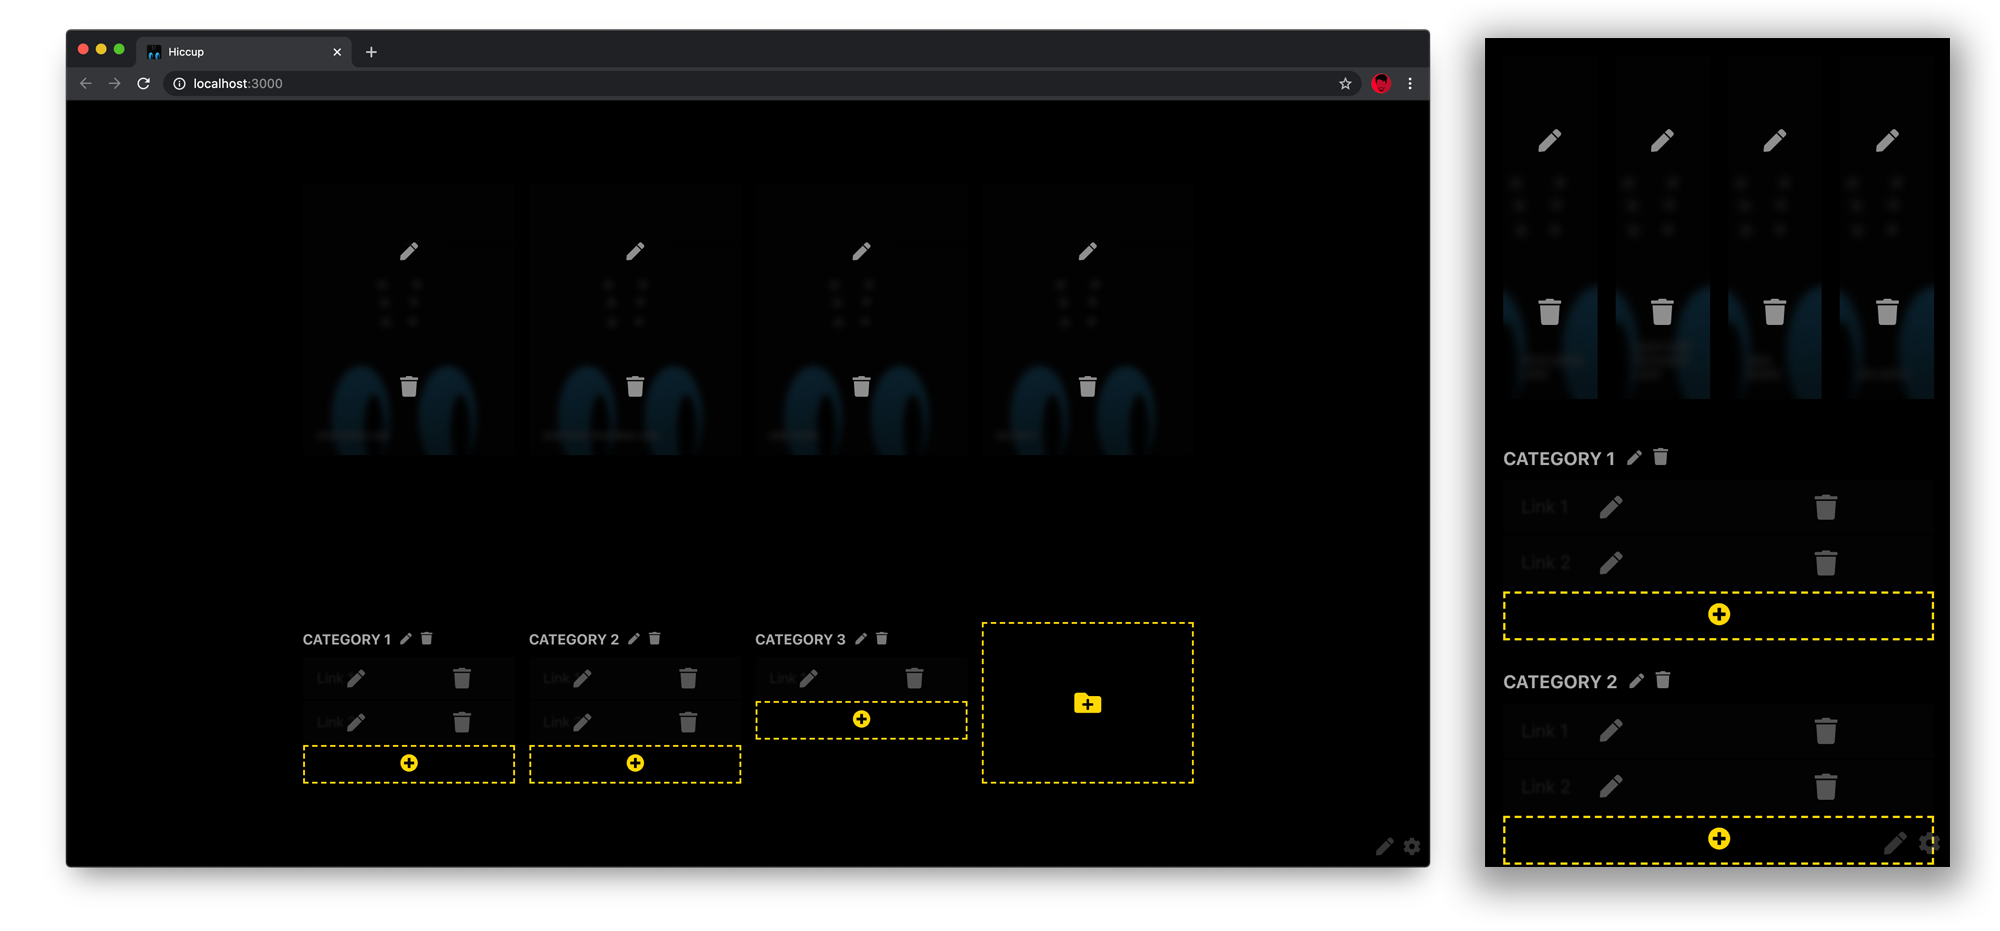
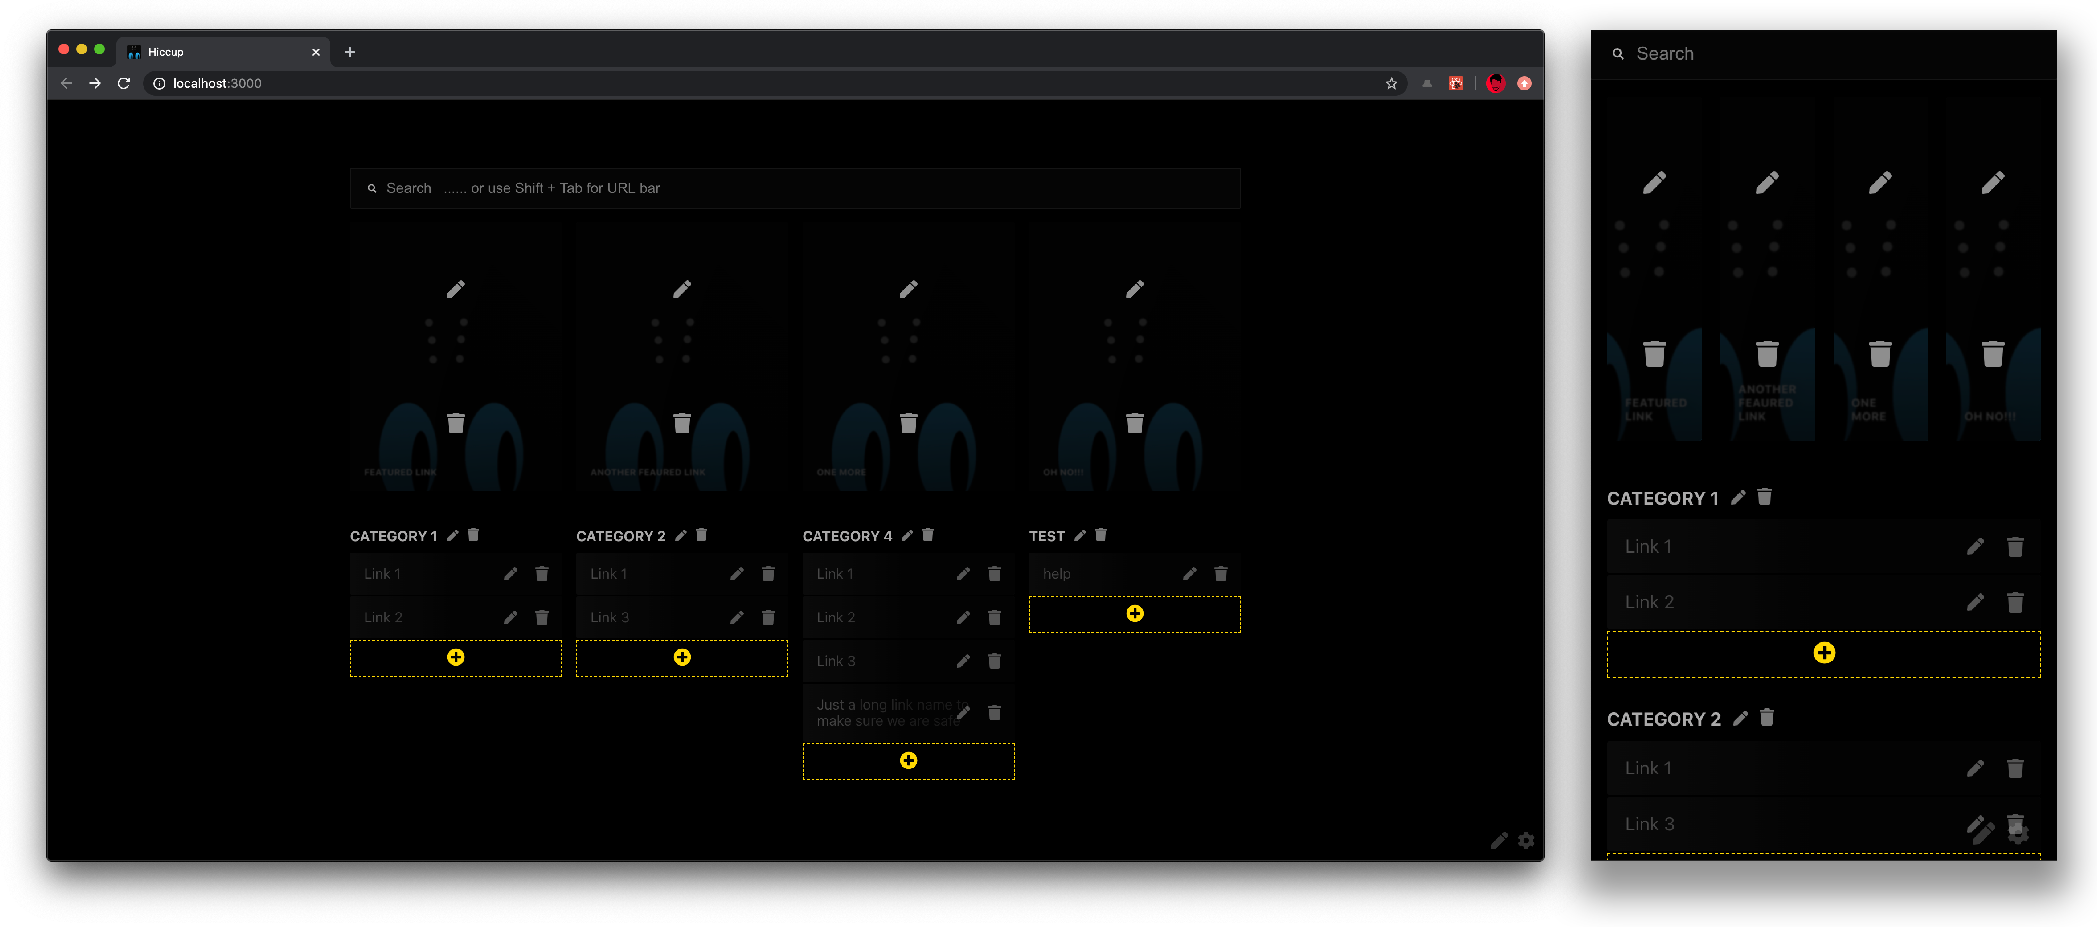
docs(Readme): updated screens

diff --git a/README.md b/README.md
@@ -15,7 +15,7 @@ A static start page to get to your most important links, **FAST**. You can use t
 - Featured Links
 - Categories
 - Quick link preview
-- Search (with tag support)
+- Search (with search provider and tag support)
 - Local Config management
 - PWA support
 - Keyboard shortcuts
@@ -28,7 +28,7 @@ Landing page
 
 Quickly find links
 
-![Quickly find links](docs/assets/screen-2.png)
+![Quickly find links](docs/assets/screen-search.png)
 
 Easily edit links
 
@@ -36,7 +36,7 @@ Easily edit links
 
 Locally manage config using JSON
 
-![Locally manage config using JSON](docs/assets/screen-3.png)
+![Locally manage config using JSON](docs/assets/screen-config.png)
 
 ## Getting started
 
